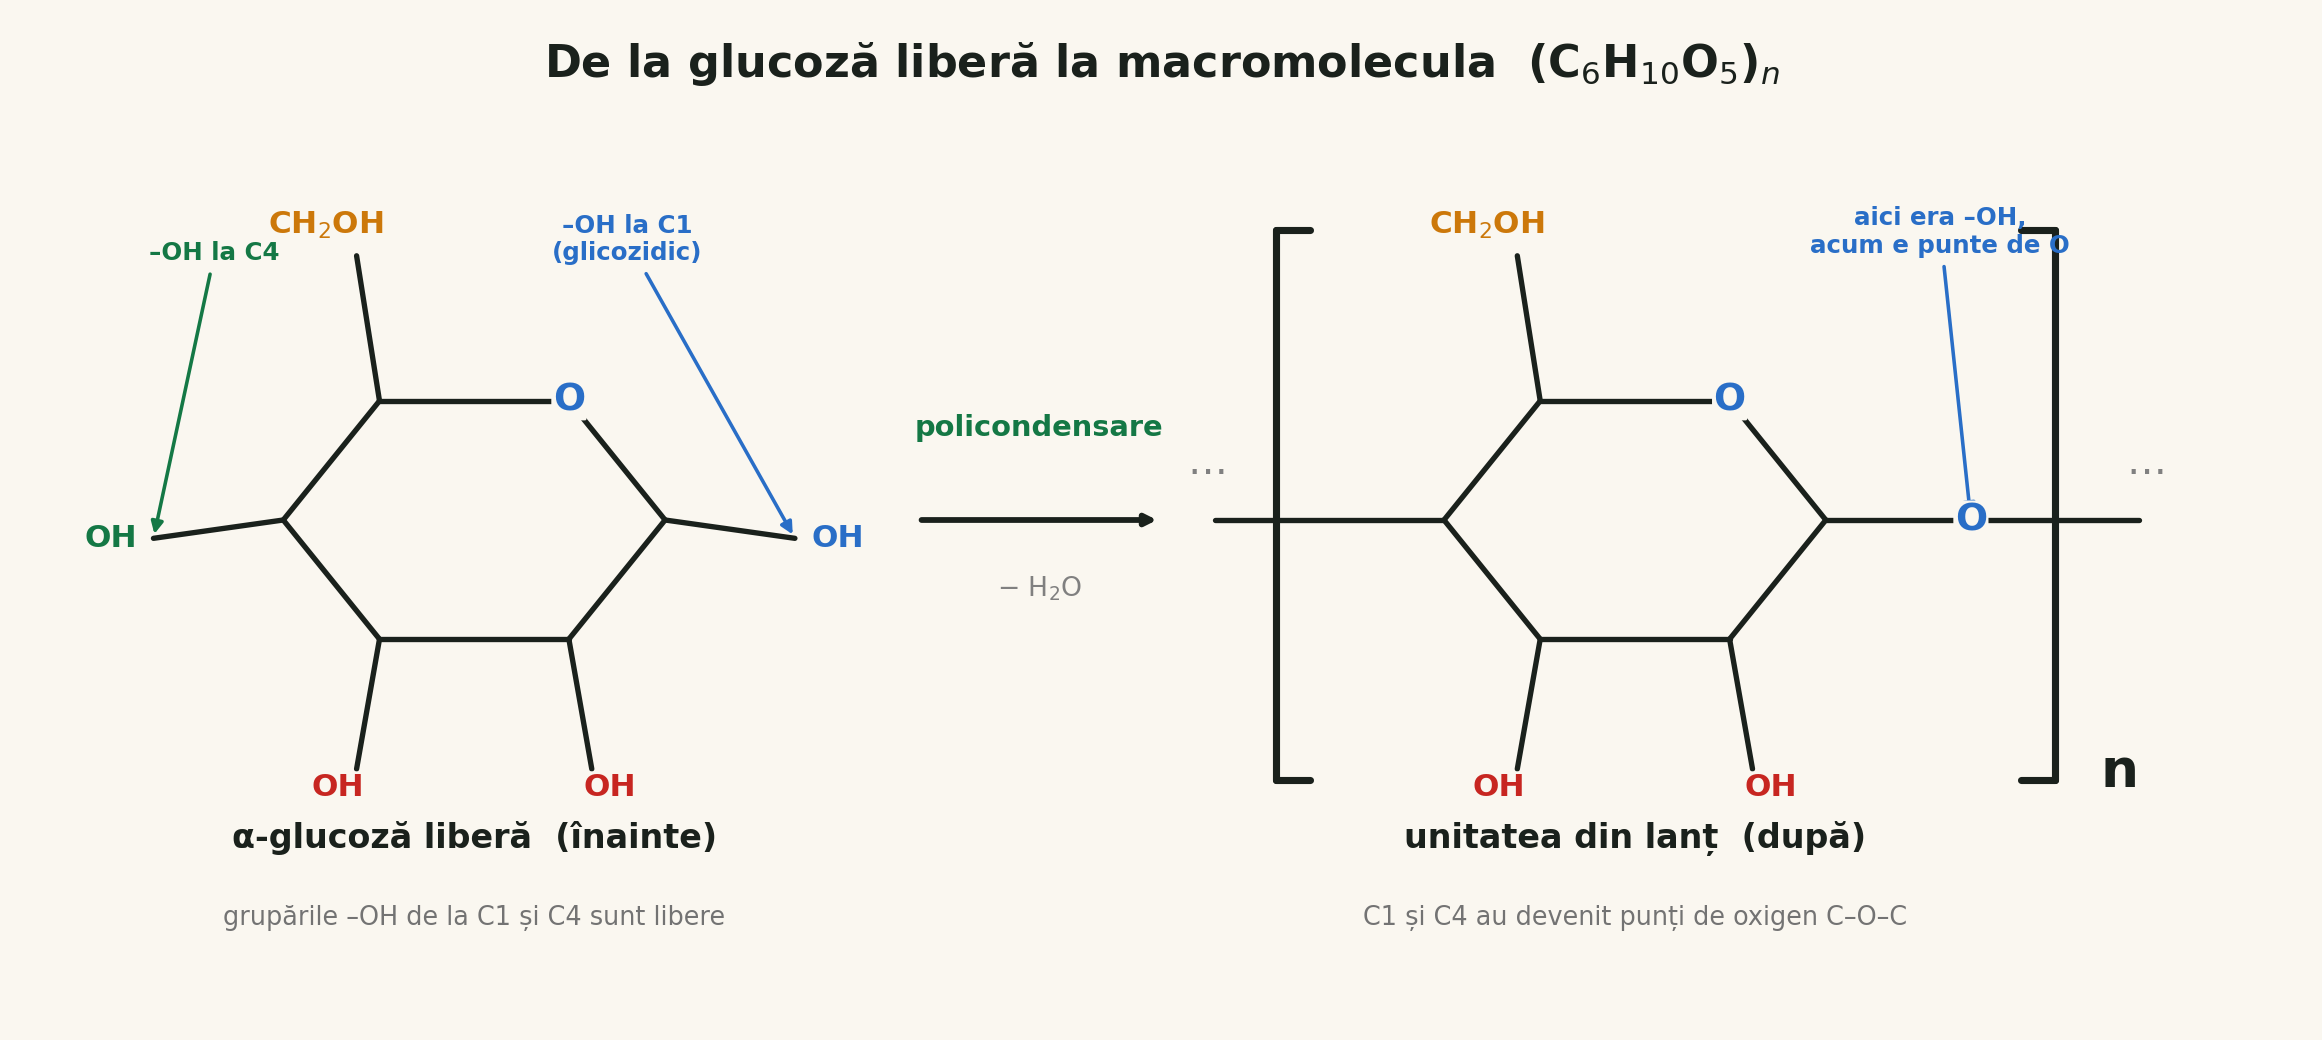
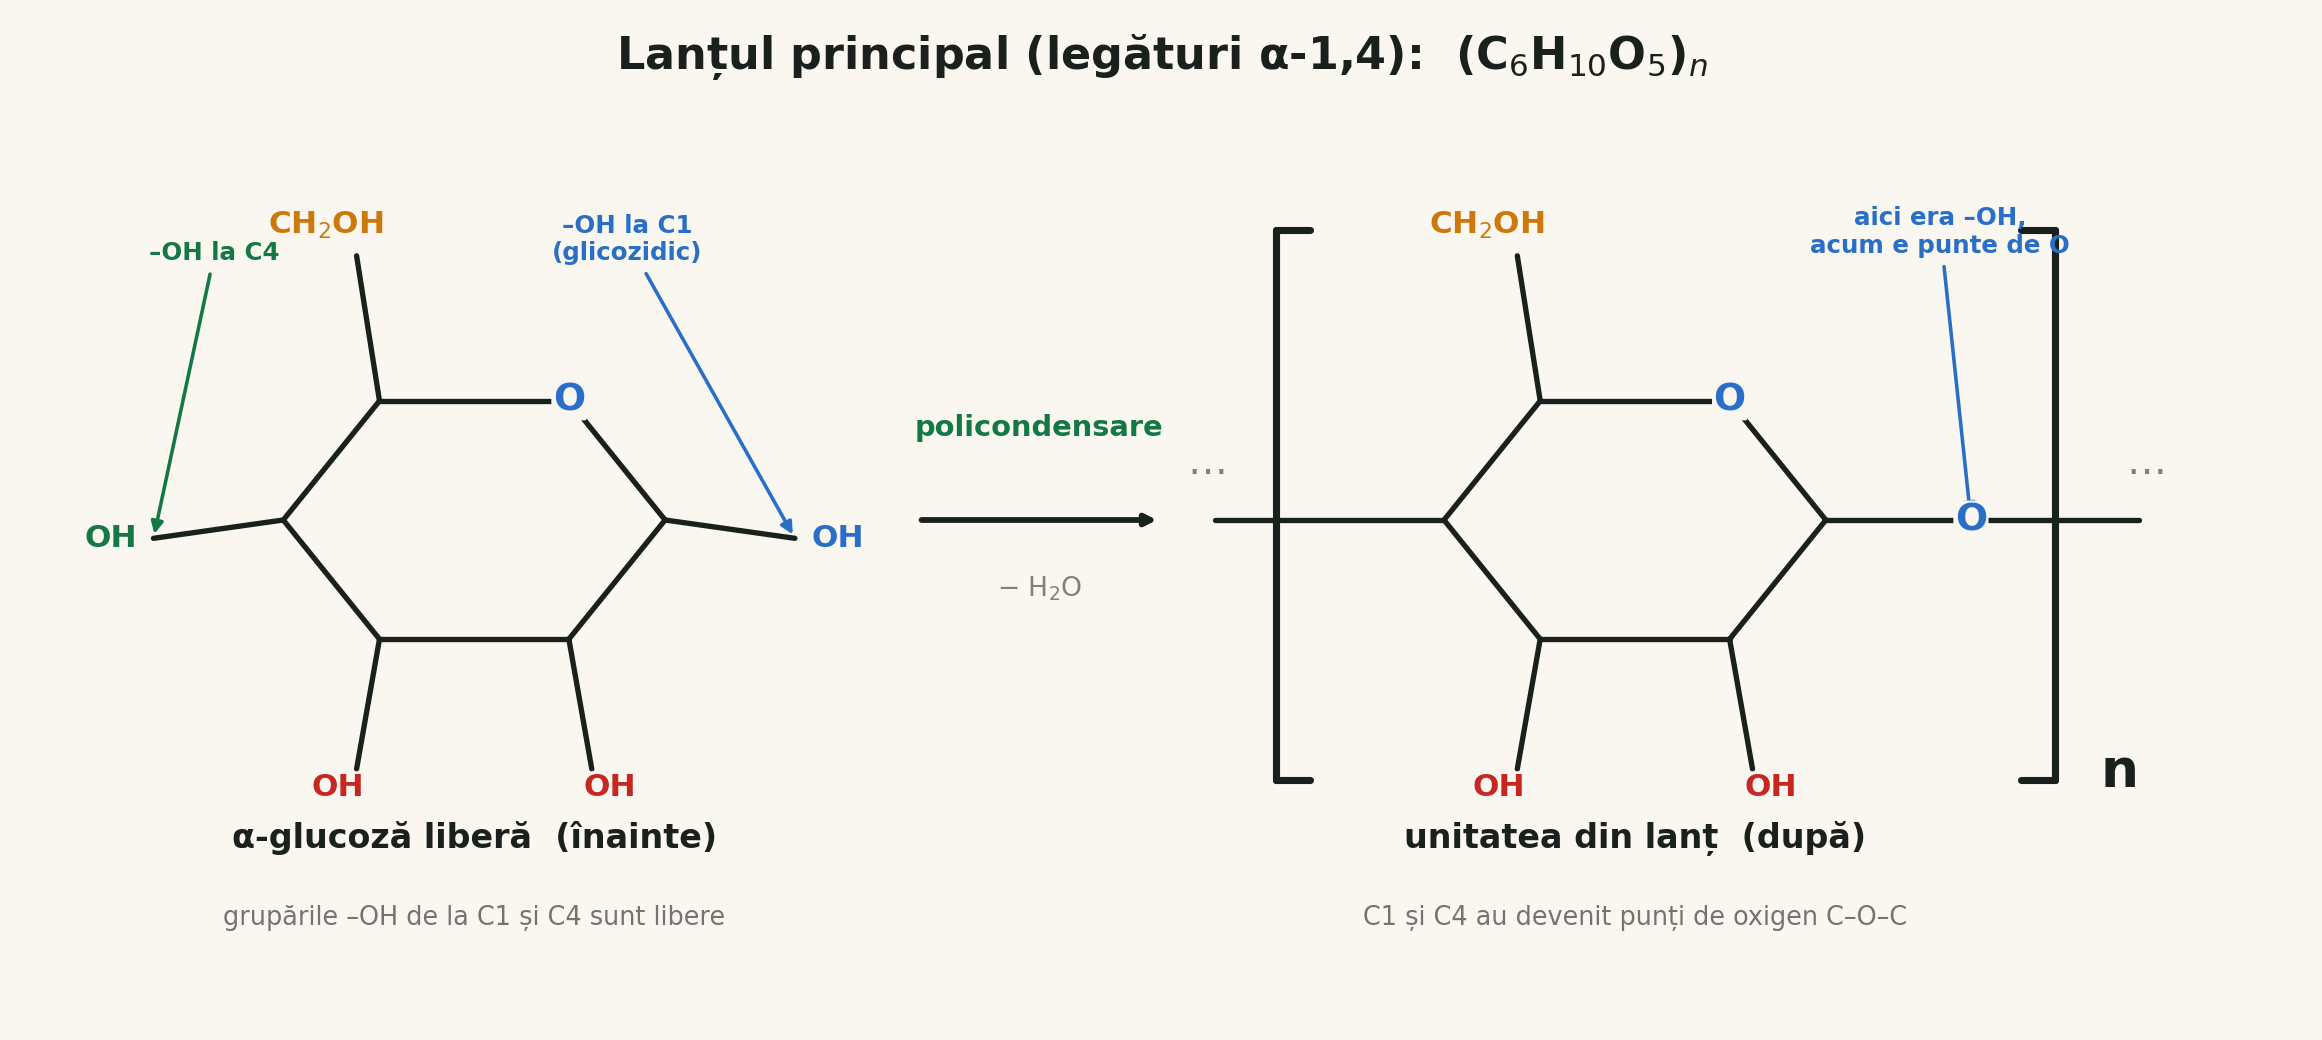
Slide 08: eticheta 'lantul principal (alfa-1,4)' pe imagine si in caption

Changed region(s): [[0.2171, 0.0308, 0.7752, 0.0923]]

diff --git a/index.html b/index.html
@@ -292,7 +292,7 @@ tbody tr:hover td,tbody tr:hover th{background:rgba(57,217,138,.05)}
       <div class="eyebrow u">Reacții chimice · 1</div>
       <h2 class="u" style="--d:1">Sinteza și hidroliza glicogenului</h2>
       <h3 class="u" style="--d:2">Sinteză (policondensare)</h3>
-      <div class="plate-light poly u" style="--d:2"><img src="images/policondensare.png" alt="policondensarea glucozei cu paranteze patrate, ca in manual"><div class="cap">n molecule de α-glucoză → macromolecula (C₆H₁₀O₅)ₙ; unitatea care se repetă e închisă în paranteze pătrate [ ]ₙ</div></div>
+      <div class="plate-light poly u" style="--d:2"><img src="images/policondensare.png" alt="policondensarea glucozei cu paranteze patrate, ca in manual"><div class="cap">Lanțul principal (α-1,4): n molecule de α-glucoză → (C₆H₁₀O₅)ₙ. Ramificațiile se fac la fel, dar prin legături α-1,6.</div></div>
       <h3 class="u" style="--d:3;margin-top:10px">Hidroliză (procesul invers)</h3>
       <div class="eq u" style="--d:3">
         <span class="m">(C<sub>6</sub>H<sub>10</sub>O<sub>5</sub>)<sub>n</sub></span>